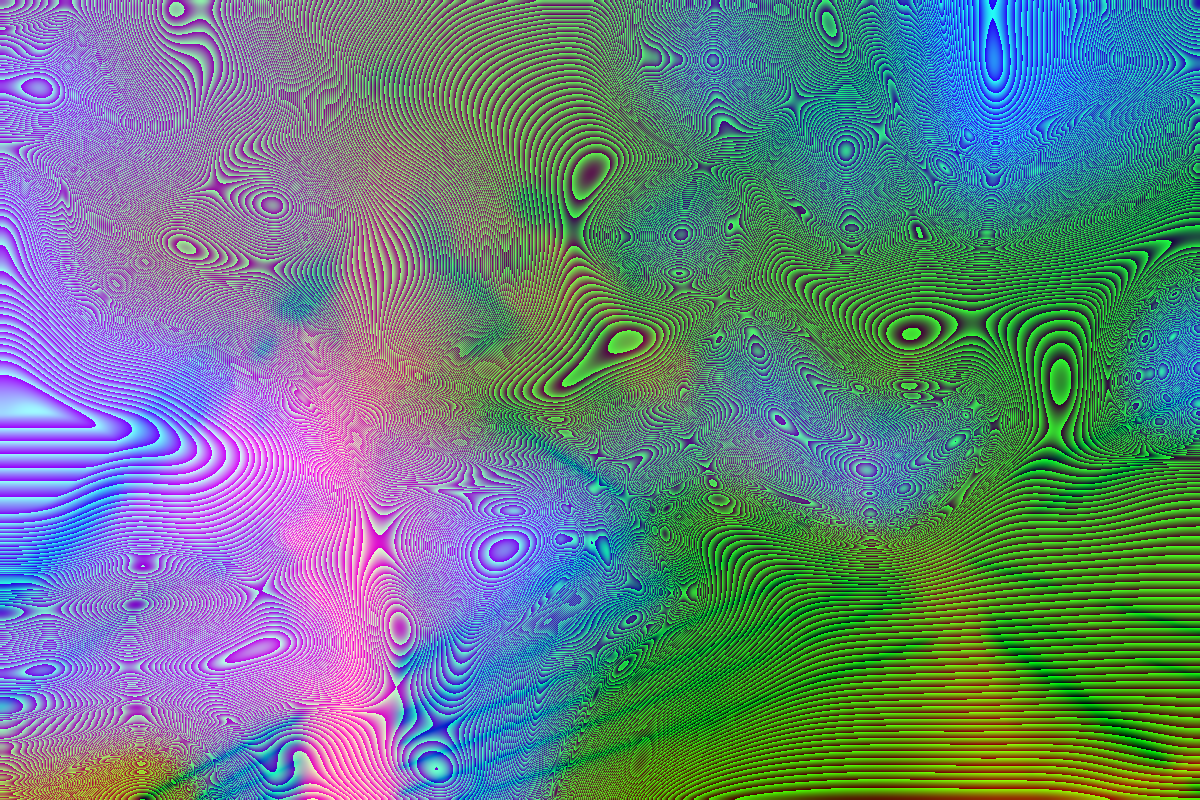
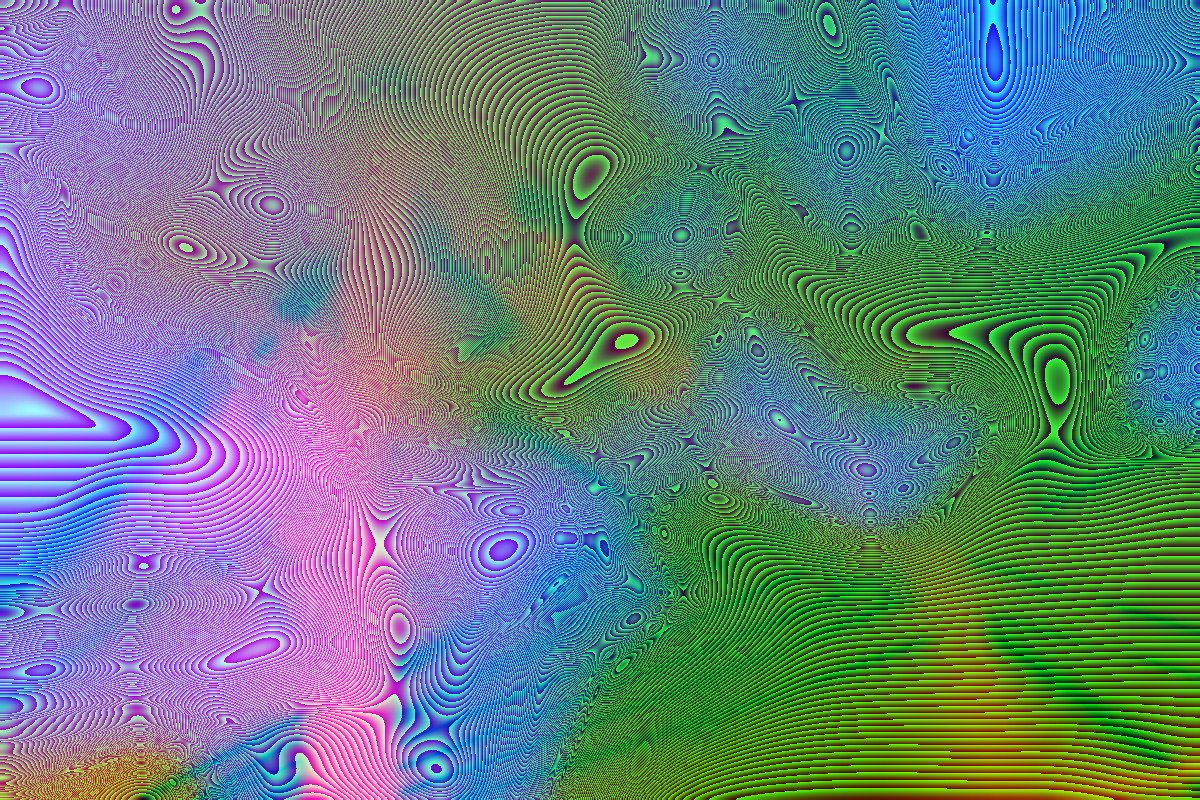
Lab: climb develop round 3
Claude-Session: https://claude.ai/code/session_01RqENhngNCzDFmJWDZueXGV

diff --git a/src/app/lab/develop/developEngine.js b/src/app/lab/develop/developEngine.js
@@ -27,7 +27,11 @@ import { createFilm, FILM_PRESETS } from "../_kit/film";
 //    cat's-eye towards the corners) whose circle of confusion grows with the
 //    depth still to cover;
 //  - the latent image: the scene itself, faint, low in contrast, washed into
-//    a cool white-blue, its sunlit curds lifted so their discs read;
+//    a cool white-blue, its sunlit curds lifted so their discs read; never
+//    brighter than the finished print (the lift is held under the developed
+//    cloud's luminance round each pixel), and none of the sky's latent terms
+//    (lift, highlight boost, halation) inside the structure's matte, dilated
+//    a few pixels, so wires, hangers and insulators never pick them up;
 //  - the strata lifted towards you in z (a scale about the principal point
 //    in proportion to nearness), held clean by the fill behind them.
 // On the structure the front is a thin band of light, which the film's
@@ -128,6 +132,14 @@ float skyKey(vec2 iuv) {
   return SKY_SPAN * dot(hl, vec2(65280.0, 255.0) / 65535.0);
 }
 float toFg(float k8) { return FG_LO + (1.0 - FG_LO) * k8; }
+// Where the structure is, dilated by a few pixels (a coarser mip of the
+// matte, pushed up), so a two-pixel wire, a hanger or an insulator rim is
+// fully inside it: nothing of the latent sky's treatment may land there.
+float cover(vec2 uv) {
+  float a0 = texture(uAlpha, uv).r;
+  float a1 = textureLod(uAlpha, uv, 1.5).r;
+  return clamp(max(a0, 3.0 * a1), 0.0, 1.0);
+}
 float ahead(float k) { return (uDir > 0.0 ? k : 1.0 - k) - uFront; }
 float cocOf(float d) {
   float t = smoothstep(0.0, AHEAD, d);
@@ -166,6 +178,9 @@ void main() {
   float l = dot(c, LUMA);
   float lm = dot(textureLod(uFill, iuv, 3.5).rgb, LUMA);
   float hi = smoothstep(0.015, 0.09, l - lm) * smoothstep(0.3, 0.6, l);
+  // Never on or beside the structure: a fleck of hardware left in the fill
+  // would otherwise bloom into a white flare.
+  hi *= 1.0 - cover(iuv);
   c *= 1.0 + 7.0 * smoothstep(0.0, AHEAD * 0.4, d) * hi;
   o0 = vec4(c, 1.0);
   o1 = vec4(min(31.0, SKY_COC * cocOf(d)) / 32.0, 0.0, 0.0, 1.0);
@@ -279,28 +294,59 @@ vec3 latent(vec3 c, float d, float dev) {
   return exp(mix(log(max(lat, 1e-4)), log(max(c, 1e-4)), dev));
 }
 
+// The developed cloud round a pixel: the brightest of the print within a
+// mass's reach of it (32 px cells, on two rings, smoothly filtered so the
+// level never steps), the level its whites come up to.
+float cloudWhite(vec2 iuv) {
+  vec2 px = vec2(1.0 / 2400.0, 1.0 / 1600.0);
+  float m = dot(textureLod(uFill, iuv, 5.0).rgb, LUMA);
+  for (int i = 0; i < 6; i++) {
+    float an = float(i) * 1.047198 + 0.4;
+    vec2 dir = vec2(cos(an), sin(an)) * px;
+    m = max(m, dot(textureLod(uFill, iuv + dir * 70.0, 5.0).rgb, LUMA));
+    m = max(m, dot(textureLod(uFill, iuv + dir.yx * vec2(1.5, 0.667) * 170.0, 5.5).rgb, LUMA));
+  }
+  return m;
+}
+
+// Never brighter than the finished print: the latent lift (from the
+// developed light c to lat) goes only as far as keeps its luminance at or
+// under cap. It is the lift that is held, not the light: over cap the
+// latent tone falls back towards the print's own, never towards grey.
+vec3 liftUnder(vec3 c, vec3 lat, float cap) {
+  float lc = dot(c, LUMA);
+  float ll = dot(lat, LUMA);
+  float t = ll > lc + 1e-4 ? clamp((max(cap, lc) - lc) / (ll - lc), 0.0, 1.0) : 1.0;
+  return c + (lat - c) * t;
+}
+
 // The sky at key distance d past the front. A soft band, SKY_BAND of the
 // sky's key wide, widened by the key's gradient on screen so it stays soft
 // where the key is steep; no light of its own, only a faint amber halation
-// in its middle, warming what is under it.
-vec3 developSky(vec3 c, float d, vec2 iuv) {
+// in its middle, warming what is under it. c is the sky as the lens sees it
+// (developed light, defocused); every undeveloped term (the white-blue lift,
+// the halation) is gated by 1 - cov, the dilated structure, and the lift is
+// capped at the developed print's luminance there.
+vec3 developSky(vec3 c, float d, vec2 iuv, float cov, float cap) {
   float w = max(SKY_BAND * SKY_SPAN * uSig / SIGMA, SKY_PX * fwidth(d));
   float dev = 1.0 - smoothstep(-0.5 * w, 0.5 * w, d);
-  vec3 r = latent(c, d, dev);
+  float open = 1.0 - cov;
+  vec3 r = liftUnder(c, mix(c, latent(c, d, dev), open), cap);
   float h = 4.0 * dev * (1.0 - dev);
   float leak = 0.7 + 0.3 * vnoise(iuv * vec2(2.6, 1.8) + vec2(uTime * 0.04, -uTime * 0.03));
   // Halation is the red layer's own glow: on a cool sky it has to take a
   // little blue out as well as add amber, or it reads as lilac, not warm.
-  float g = h * (uBand / BAND) * leak;
+  float g = h * (uBand / BAND) * leak * open;
   r = mix(r, r * WARM, 0.32 * g);
   return r + AMBER * (g * HALO);
 }
 
 // The structure at key distance d past the front (d < 0: developed).
-vec3 develop(vec3 c, float d, vec2 iuv) {
+vec3 develop(vec3 c, float d, vec2 iuv, float cap) {
   float sig = uSig;
   float dev = 1.0 - smoothstep(-0.3 * sig, 0.7 * sig, d);
-  vec3 r = latent(c, d, dev);
+  // the latent steel may come up towards the sky's tone, never past it
+  vec3 r = liftUnder(c, latent(c, d, dev), cap);
   // The front: light where developer meets paper, trailing a little behind.
   float w = d >= 0.0 ? sig : sig * 1.3;
   float b = exp(-(d * d) / (w * w));
@@ -313,21 +359,29 @@ vec3 develop(vec3 c, float d, vec2 iuv) {
 void main() {
   vec2 iuv = vec2(vUv.x, 1.0 - vUv.y);
 
-  // Sky.
-  float dB = ahead(skyKey(iuv));
-  vec3 sky = mix(texture(uFill, iuv).rgb, texture(uBgBlur, vUv).rgb, smoothstep(0.25, 1.25, SKY_COC * cocOf(dB)));
-  sky = developSky(sky, dB, iuv);
-
-  // Structure, lifted.
+  // Structure, lifted: premultiplied, with its own matte.
   vec2 q = fgWarp(iuv);
   float a = texture(uAlpha, q).r;
   vec3 pm = max(texture(uPlate, q).rgb - (1.0 - a) * texture(uFill, q).rgb, 0.0);
   pm = min(pm, vec3(a)) * step(0.004, a);
   float dF = ahead(toFg(texture(uKey, q).r));
   vec4 fg = mix(vec4(pm, a), texture(uFgBlur, vUv), smoothstep(0.25, 1.25, cocOf(dF)));
-  vec3 fc = develop(fg.rgb / max(fg.a, 1e-3), dF, iuv);
+  // where the structure is on screen and where it was baked, dilated
+  float cov = max(cover(q), cover(iuv));
 
-  o = vec4(fc * fg.a + sky * (1.0 - fg.a), 1.0);
+  // Sky, as the lens sees it. The cap: the developed cloud's luminance here,
+  // the brightest the finished print reaches round this pixel, so the
+  // latent wash and its discs can come up to the cloud they belong to but
+  // never outshine it.
+  float dB = ahead(skyKey(iuv));
+  float rB = SKY_COC * cocOf(dB);
+  vec3 skyDev = texture(uFill, iuv).rgb;
+  float cap = max(dot(skyDev, LUMA), cloudWhite(iuv));
+  vec3 sky = mix(skyDev, texture(uBgBlur, vUv).rgb, smoothstep(0.25, 1.25, rB));
+  sky = developSky(sky, dB, iuv, cov, cap);
+
+  vec3 fgP = develop(fg.rgb / max(fg.a, 1e-3), dF, iuv, cap) * fg.a;
+  o = vec4(fgP + sky * (1.0 - fg.a), 1.0);
 }`;
 
 const BLIT = `#version 300 es

diff --git a/tools/depth/bakes/develop/bake.py b/tools/depth/bakes/develop/bake.py
@@ -157,12 +157,83 @@ alpha = np.where(alpha < 0.04, 0.0, alpha).astype(np.float32)
 # keep partial alpha only where it rims something solid.
 near_solid = cv2.dilate((alpha > 0.5).astype(np.uint8), disk(4)) > 0
 alpha = np.where(near_solid, alpha, 0.0).astype(np.float32)
+
+# Bright hardware: the dropper hangers (bare metal rods) and the porcelain
+# rims of the insulators are lighter than the sky behind them, so the matte
+# above (dark steel) drops them as "sky-like" and they stayed in the fill,
+# where the latent sky's highlight boost blew them into white blooms. Find
+# them as narrow, neutral, brighter-than-the-local-sky features attached to
+# the structure but not in a small cell of it (sky seen through the platform's
+# grating is enclosed, a hanger between two wires is not), grown by
+# hysteresis to their soft edges, and matte them against the painted sky.
+def _bright_hardware(alpha):
+    solid = alpha > 0.5
+    th = cv2.morphologyEx(yl, cv2.MORPH_TOPHAT, disk(7))
+    sat_p = (srgb.max(2) - srgb.min(2)) / np.maximum(srgb.max(2), 1e-3)
+    kf = (~(cv2.dilate(((alpha > 0.01) | (th > 0.02)).astype(np.uint8), disk(2)) > 0)).astype(np.float32)
+    bg = cv2.GaussianBlur(yl * kf, (0, 0), 6) / np.maximum(cv2.GaussianBlur(kf, (0, 0), 6), 1e-4)
+    # open sky: the large cells between the steel and wires (sky seen
+    # through the platform's grating or the girder's lattice comes in small
+    # enclosed cells)
+    wall = cv2.dilate(solid.astype(np.uint8), disk(1))
+    n, lab, st_, _ = cv2.connectedComponentsWithStats((1 - wall).astype(np.uint8), connectivity=4)
+    big = st_[:, cv2.CC_STAT_AREA] > 0.004 * W * H
+    big[0] = False
+    cells = big[lab] & (wall == 0)
+    open_sky = cv2.dilate(cells.astype(np.uint8), disk(2)) > 0
+    base = ~solid & open_sky & (sat_p < 0.35)
+    # the rods seen against cloud are outlined dark rather than lit: take
+    # those too, as anything narrow that departs from the sky either way
+    bh_ = cv2.morphologyEx(yl, cv2.MORPH_BLACKHAT, disk(7))
+    lit = base & (th > 0.04) & ((yl - bg) > 0.05)
+    dark = base & (bh_ > 0.06)
+    weak = base & (((th > 0.015) & ((yl - bg) > 0.02)) | (bh_ > 0.025))
+    touch = cv2.dilate(solid.astype(np.uint8), disk(6)) > 0
+
+    def attached(m, rod_only):
+        n, lab, st_, _ = cv2.connectedComponentsWithStats(m.astype(np.uint8), connectivity=8)
+        att = np.zeros(n, bool)
+        np.logical_or.at(att, lab[touch & m], True)
+        # hardware is a rod (long and thin) or a small fitting; a puff of
+        # cloud, or the blue between two curds, that touches the steel is not
+        area = st_[:, cv2.CC_STAT_AREA].astype(np.float32)
+        span = np.hypot(st_[:, cv2.CC_STAT_WIDTH], st_[:, cv2.CC_STAT_HEIGHT]).astype(np.float32)
+        rod = (area < 5.0 * span) & (span > 16)
+        att &= rod if rod_only else (rod | (area < 160))
+        att[0] = False
+        return att[lab]
+
+    seed = attached(lit, False) | attached(dark, True)
+    n, lab, _, _ = cv2.connectedComponentsWithStats(weak.astype(np.uint8), connectivity=8)
+    keep = np.zeros(n, bool)
+    np.logical_or.at(keep, lab[seed & weak], True)
+    keep[0] = False
+    # grown only to the rods' own soft edges, not into cloud beside them
+    grown = keep[lab] & (cv2.dilate(seed.astype(np.uint8), disk(3)) > 0)
+    return seed, grown | seed
+
+
+hw_core, hw = _bright_hardware(alpha)
+hole = cv2.dilate(((alpha > 0.01) | hw).astype(np.uint8), disk(3)) > 0
+B = sky_fill(~hole)
+# known-background matte for the bright parts, F their own core colour
+Fb = pushpull(lin, hw_core.astype(np.float32))
+dFB = Fb - B
+den = (dFB * dFB).sum(2)
+a_hw = np.clip(((lin - B) * dFB).sum(2) / np.maximum(den, 1e-5), 0, 1) * smoothstep(0.002, 0.01, den)
+a_hw = np.where(cv2.dilate(hw.astype(np.uint8), disk(1)) > 0, a_hw, 0.0)
+alpha = np.maximum(alpha, cv2.GaussianBlur(a_hw.astype(np.float32), (0, 0), 0.5)).astype(np.float32)
+alpha = np.where(alpha < 0.04, 0.0, alpha).astype(np.float32)
+print("bright hardware px", int(hw.sum()))
+
 # and a last fill with every pixel now called clear as a source
 known3 = ~(cv2.dilate((alpha > 0.01).astype(np.uint8), disk(2)) > 0)
 B = sky_fill(known3)
 
-# fill equals the plate wherever nothing covers it
-cover = cv2.dilate((alpha > 0.01).astype(np.uint8), disk(1)) > 0
+# The fill is the painted-out sky across the matte's whole soft edge (and a
+# few pixels past it), never the plate: anything left there is hardware or a
+# fringe of it, which the latent sky would lift and bloom.
+cover = cv2.dilate((alpha > 0.01).astype(np.uint8), disk(3)) > 0
 fill = np.where(cover[..., None], B, lin)
 
 # --- structure depth key, 0 far .. 1 near --------------------------------
